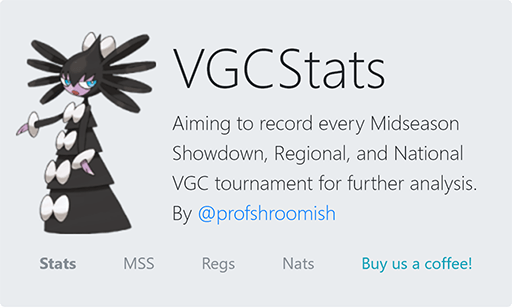
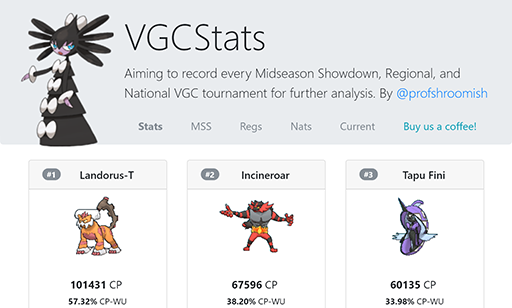
Update VGCStats post

diff --git a/content/portfolio/vgcstats.md b/content/portfolio/vgcstats.md
@@ -7,7 +7,7 @@ image: "/vgcstats.png"
 weight: 100
 ---
 
-A website that gathers statistics about Pokémon used in official tournaments of the Pokémon Videogame Championship. 
+A website that gathers statistics about official tournaments of the Pokémon Videogame Championship. 
 
 <!--more-->
 
